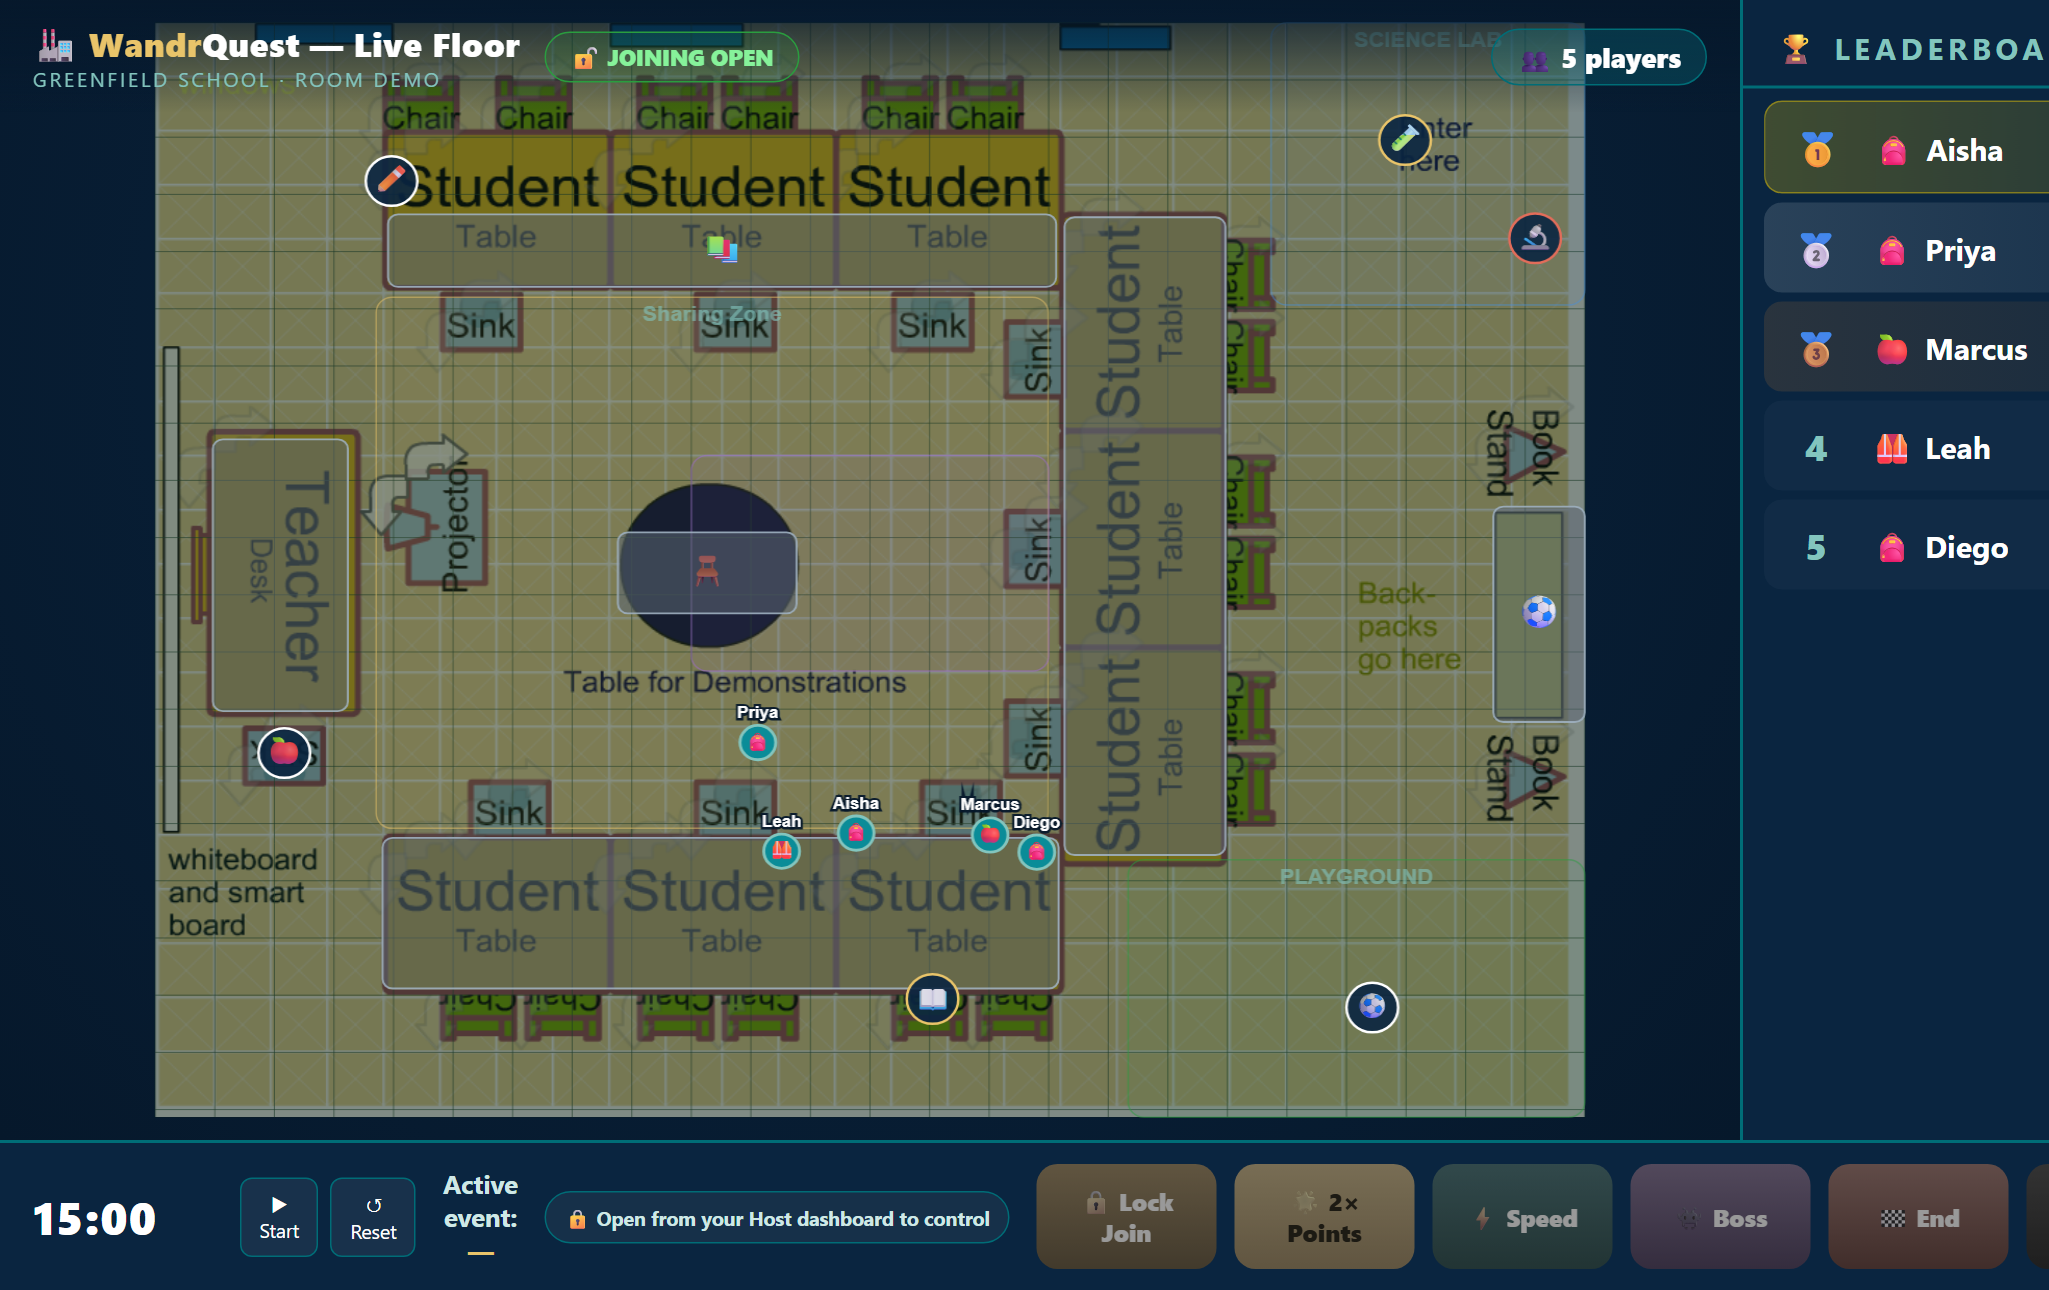
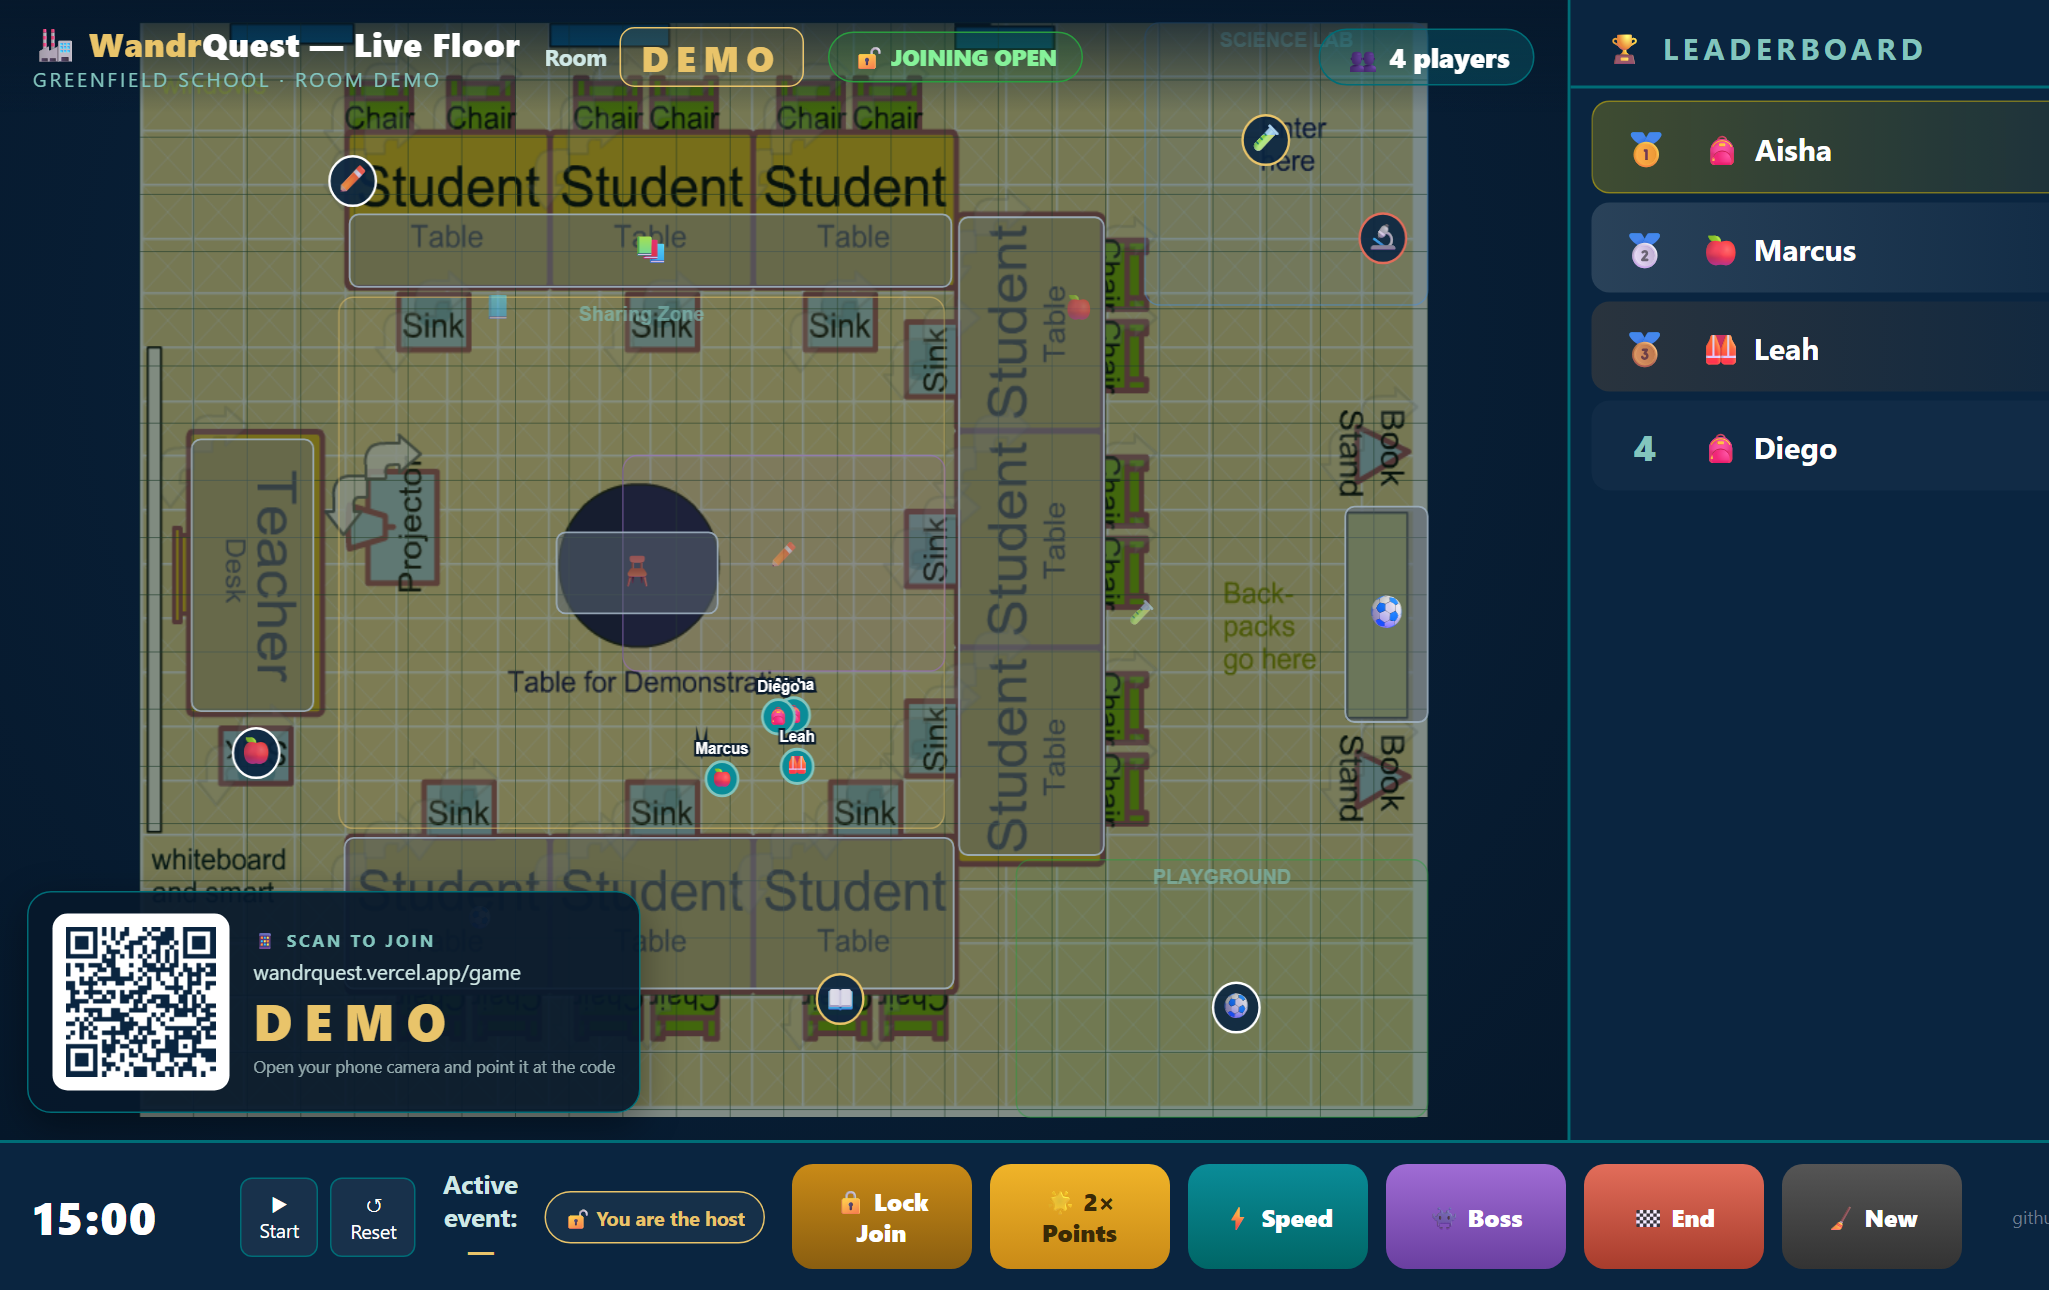
README: add screenshots for QR, achievements, analytics, items

diff --git a/README.md b/README.md
@@ -147,6 +147,10 @@ Players join instantly by scanning a QR code — no typing a room code.
 * ✅ Scanning auto-fills the room and goes straight to name/role
 * ✅ Shown big on the **projector** (with the room code) and in a **host-dashboard** modal (copy-link + per-room)
 
+<img src="docs/screenshots/host-qr.png" alt="Host QR modal" width="40%" />
+
+*(The projector also shows the live join card + room code — see the projector screenshot above.)*
+
 ### 🏅 Achievement System
 
 Unlockable achievements reward exploration, teamwork, and learning.
@@ -165,6 +169,9 @@ Unlockable achievements reward exploration, teamwork, and learning.
 * ✅ End-of-game achievement summary (earned vs locked)
 * ✅ Question tagging (`category`) in the editor powers Safety Expert
 
+<img src="docs/screenshots/game-achievement.png" alt="In-game achievement unlock + item counter" width="20%" />
+<img src="docs/screenshots/end-achievements.png" alt="End-of-game achievement summary" width="20%" />
+
 ### 📊 Analytics Dashboard (`/analytics`, host-only)
 
 Actionable insights after each session, secured by RLS to the room's host.
@@ -175,12 +182,14 @@ Actionable insights after each session, secured by RLS to the room's host.
 * ✅ Activity **heatmap** of where questions were answered
 * ✅ **CSV export** and **PDF report** (print) · session switcher + history across your games
 
+<img src="docs/screenshots/analytics.png" alt="Analytics dashboard" width="45%" />
+
 ---
 
 ## 🚧 Roadmap
 
 ### 🎮 Expanded Gameplay Mechanics
 
-* ✅ **Item collection quests** — collectible items on the map, live counter, bonus points, and the Collector achievement
+* ✅ **Item collection quests** — collectible items on the map, live counter, bonus points, and the Collector achievement (the floating items and 🎒 counter are visible in the projector and player screenshots above)
 * Team-based objectives · trading & resource sharing · timed missions
 * Random world events · NPC dialogue trees · unlockable map areas · seasonal challenges
